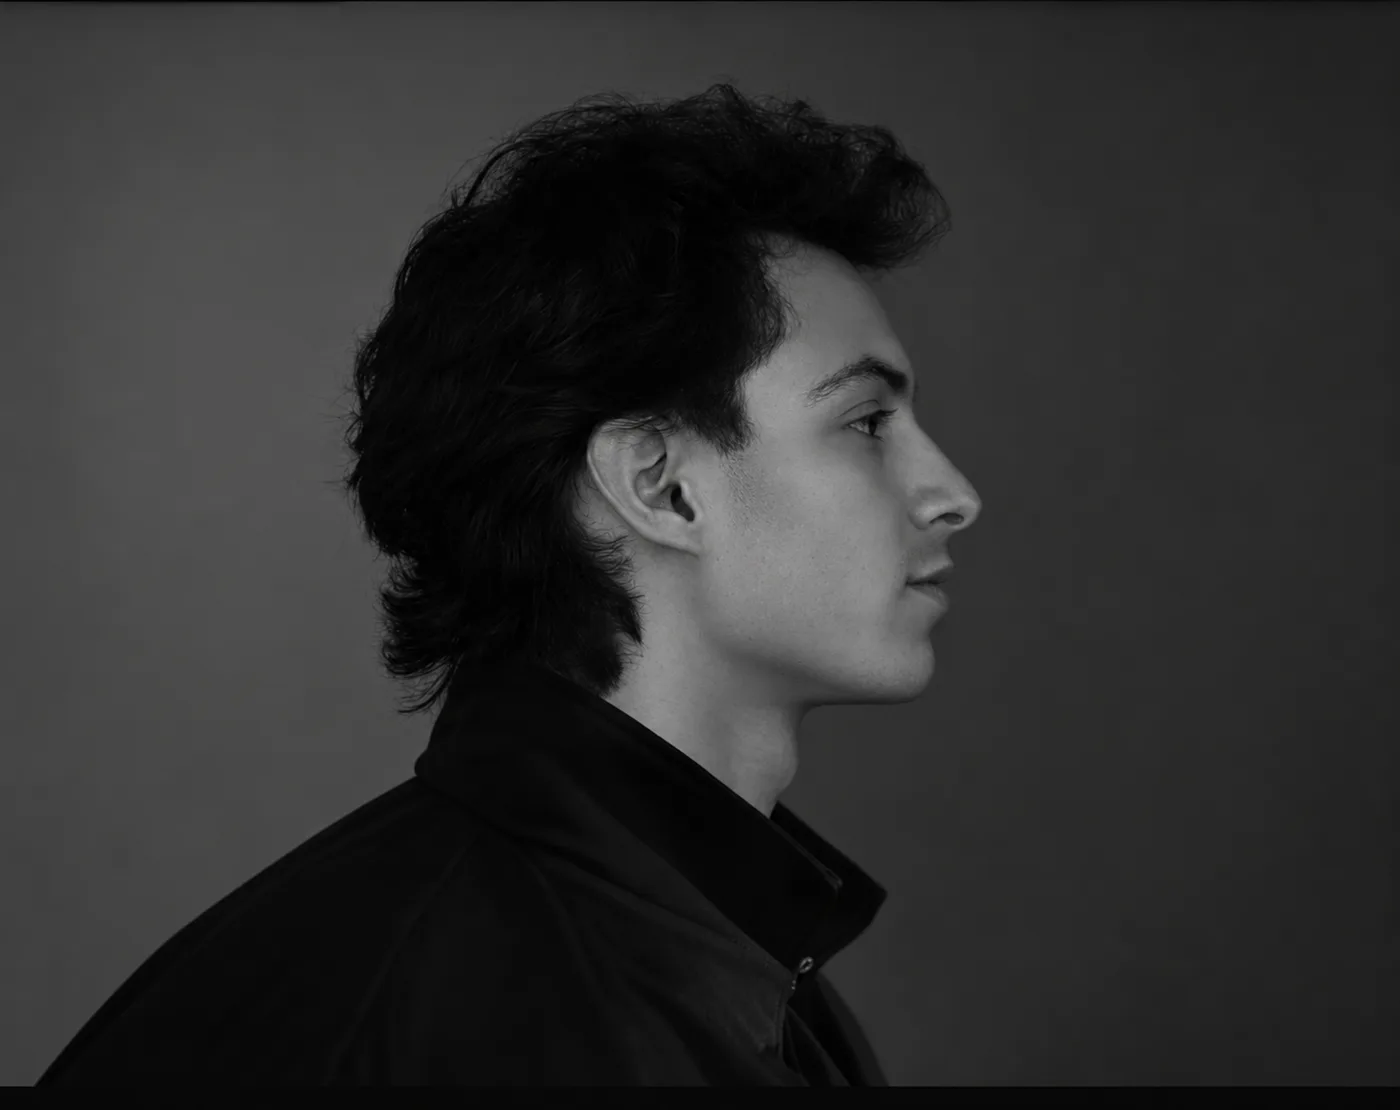
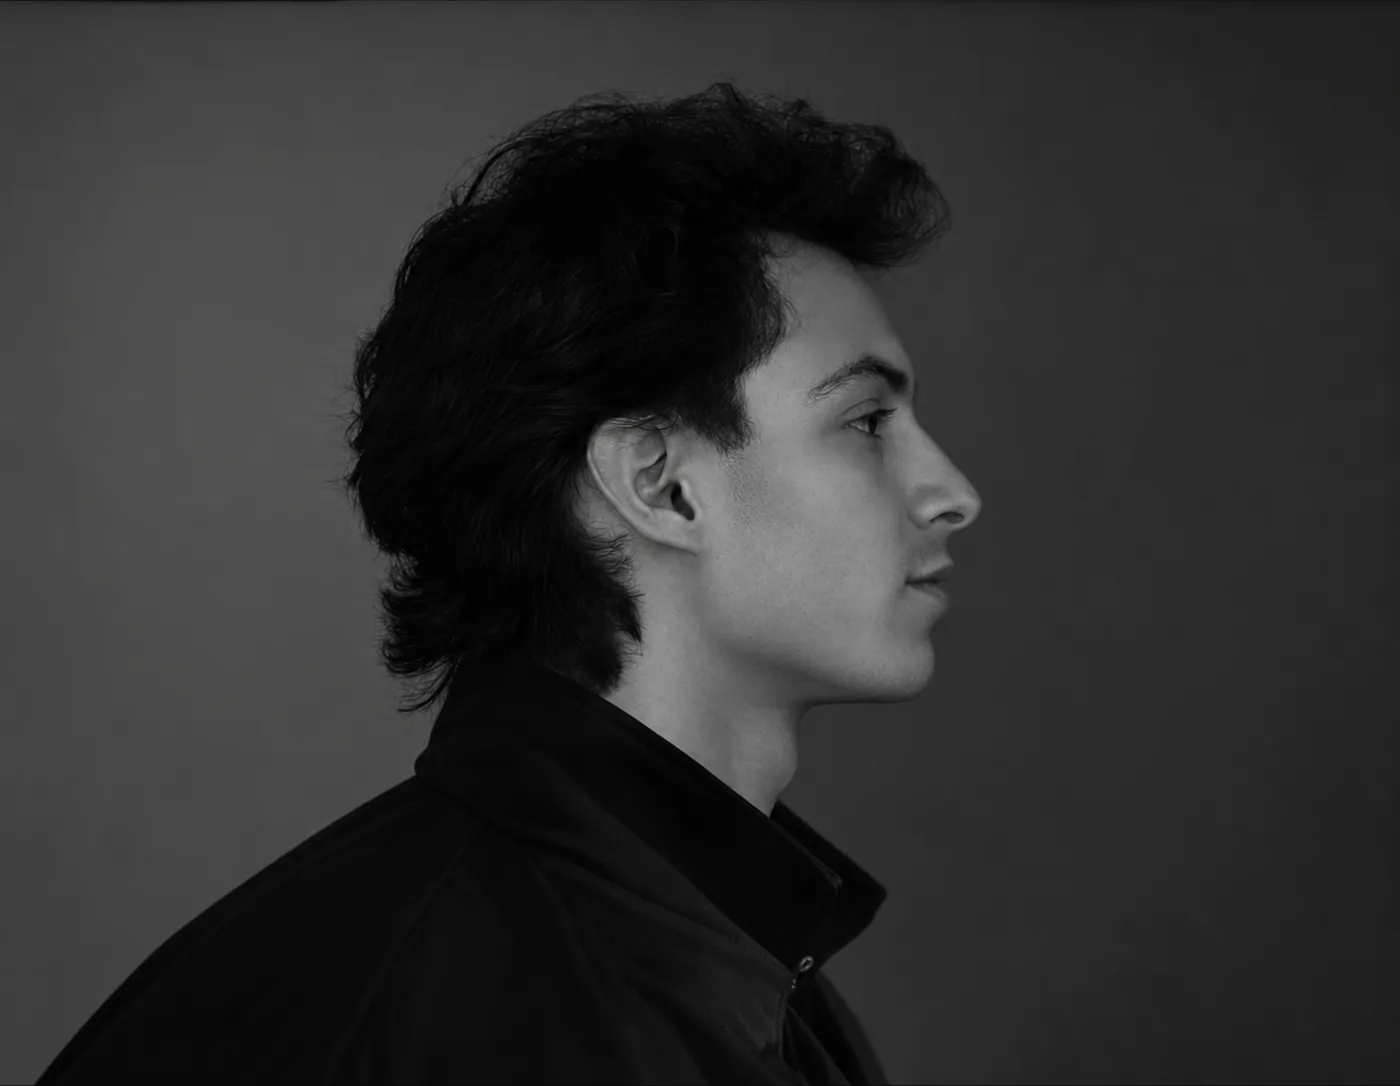
Samsung: one clay/final compare, finals on their own, renders fit the screen
- import-projects picks the best-aligned clay/final pair (image
  similarity) as the single compare plate; the other finals get their
  own equal-size Renders section and the other clays join the
  screenshots in the behind-the-scenes strip.
- Exhibit pieces and the compare plate are capped to the screen height
  so each render is seen whole without scrolling.
- About portrait: dark band trimmed from the bottom edge (now generated
  by import-projects into src/data/portrait.json).

diff --git a/scripts/import-projects.js b/scripts/import-projects.js
@@ -21,11 +21,48 @@ const projects = [
 const fallbackCover = { GLOBALSTAR: 'ChatGPT Image Oct 18, 2026, 03_14_55 AM-2.png' };
 const isImg = (f) => /\.(png|jpe?g)$/i.test(f);
 // Clay/final pairs, matched by file name: the COVER plus "cover 2, cover 3…" in order are the
-// finals, "clay 01, clay 02…" in order are their clay versions. "screen…" files are kept for
-// the behind-the-scenes strip. A project only gets these when it has "clay…" files.
+// finals, "clay 01, clay 02…" in order are their clay versions. The best-aligned pair becomes the
+// single compare plate; the other finals are shown on their own, and the other clays join the
+// "screen…" files in the behind-the-scenes strip. Only projects with "clay…" files get this.
 const isFinal = (f) => /^cover/i.test(f);
 const isClay = (f) => /^clay/i.test(f);
 const isScreen = (f) => /^screen/i.test(f);
+
+// How closely two images line up (correlation of small greyscale thumbnails, -1…1).
+async function similarity(a, b) {
+  const thumb = async (f) => Array.from(await sharp(f).removeAlpha().resize(96, 96, { fit: 'fill' }).greyscale().blur(1).raw().toBuffer());
+  const [x, y] = [await thumb(a), await thumb(b)];
+  const mean = (v) => v.reduce((t, n) => t + n, 0) / v.length;
+  const [mx, my] = [mean(x), mean(y)];
+  let num = 0, dx = 0, dy = 0;
+  for (let i = 0; i < x.length; i++) {
+    num += (x[i] - mx) * (y[i] - my);
+    dx += (x[i] - mx) ** 2;
+    dy += (y[i] - my) ** 2;
+  }
+  return num / Math.sqrt(dx * dy || 1);
+}
+
+// About page portrait: WEBSITE/PHOTO.png with any solid dark rows at the top/bottom edge trimmed.
+async function encodePortrait() {
+  const input = path.join(SRC, 'PHOTO.png');
+  if (!fs.existsSync(input)) return;
+  const { data, info } = await sharp(input).greyscale().raw().toBuffer({ resolveWithObject: true });
+  const rowMean = (y) => {
+    let t = 0;
+    for (let x = 0; x < info.width; x++) t += data[y * info.width + x];
+    return t / info.width;
+  };
+  let top = 0;
+  let bottom = info.height - 1;
+  while (top < bottom && rowMean(top) < 12) top++;
+  while (bottom > top && rowMean(bottom) < 12) bottom--;
+  fs.mkdirSync(`${APP}/public/images/about`, { recursive: true });
+  const out = await sharp(input).extract({ left: 0, top, width: info.width, height: bottom - top + 1 })
+    .resize({ width: 1400, withoutEnlargement: true }).webp({ quality: 82 }).toFile(`${APP}/public/images/about/photo.webp`);
+  console.log(`Portrait: trimmed ${top}px top / ${info.height - 1 - bottom}px bottom -> ${out.width}x${out.height}`);
+  return { src: '/images/about/photo.webp', w: out.width, h: out.height };
+}
 
 const slugify = (s) => s.toLowerCase().replace(/[^a-z0-9]+/g, '-').replace(/^-|-$/g, '');
 
@@ -64,6 +101,8 @@ function encodeShowreel() {
 
 (async () => {
   encodeShowreel();
+  const portrait = await encodePortrait();
+  if (portrait) fs.writeFileSync(`${APP}/src/data/portrait.json`, JSON.stringify(portrait, null, 2) + '\n');
   fs.rmSync(OUT, { recursive: true, force: true });
   const manifest = [];
   for (const [dir, title] of projects) {
@@ -89,27 +128,36 @@ function encodeShowreel() {
     }
     const videoFile = all.find((f) => /\.mp4$/i.test(f));
     const video = videoFile ? encodeVideo(path.join(SRC, dir, videoFile), slug) : null;
-    let plates;
+    let compare;
+    let finals;
     let behind;
     const clays = images.filter((i) => isClay(i.file));
     if (clays.length) {
-      const finals = [cover, ...images.filter((i) => isFinal(i.file))];
-      plates = clays.slice(0, finals.length).map((clay, i) => ({ final: finals[i], clay }));
-      behind = images.filter((i) => isScreen(i.file));
+      const allFinals = [{ ...cover, file: coverFile }, ...images.filter((i) => isFinal(i.file))];
+      const pairs = clays.slice(0, allFinals.length).map((clay, i) => ({ final: allFinals[i], clay }));
+      let best = 0;
+      let bestScore = -Infinity;
+      for (let i = 0; i < pairs.length; i++) {
+        const score = await similarity(path.join(SRC, dir, pairs[i].final.file), path.join(SRC, dir, pairs[i].clay.file));
+        if (score > bestScore) [best, bestScore] = [i, score];
+      }
+      compare = pairs[best];
+      finals = allFinals.filter((f) => f !== compare.final);
+      behind = [...clays.filter((c) => c !== compare.clay), ...images.filter((i) => isScreen(i.file))];
     }
-    manifest.push({ slug, title, cover, images, video, plates, behind });
+    manifest.push({ slug, title, cover, images, video, compare, finals, behind });
     const kb = images.reduce((s, i) => s + i.kb, 0) + cover.kb;
     console.log(`${title}: cover ${cover.w}x${cover.h} (${coverFile}), ${images.length} images, ${kb}KB` +
       (video ? `, video ${video.w}x${video.h} ${video.kb}KB (${videoFile})` : '') +
-      (plates ? `, ${plates.length} clay/final plates, ${behind.length} behind-the-scenes` : ''));
+      (compare ? `, compare ${compare.final.file} / ${compare.clay.file}, ${finals.length} finals, ${behind.length} behind-the-scenes` : ''));
   }
   const pick = ({ src, w, h }) => ({ src, w, h });
-  const strip = manifest.map(({ video, plates, behind, ...p }) => ({
+  const strip = manifest.map(({ video, compare, finals, behind, ...p }) => ({
     ...p,
     cover: pick(p.cover),
     images: p.images.map(pick),
     ...(video && { video: pick(video) }),
-    ...(plates && { plates: plates.map((pl) => ({ final: pick(pl.final), clay: pick(pl.clay) })) }),
+    ...(compare && { compare: { final: pick(compare.final), clay: pick(compare.clay) }, finals: finals.map(pick) }),
     ...(behind && behind.length && { behind: behind.map(pick) }),
   }));
   fs.writeFileSync(`${APP}/src/data/projects.json`, JSON.stringify(strip, null, 2) + '\n');

diff --git a/src/pages/Work.js b/src/pages/Work.js
@@ -1,21 +1,13 @@
 import { Link, useParams } from 'react-router-dom';
 import Page from '../components/Page';
 import HeroMedia from '../components/HeroMedia';
-import Exhibit from '../components/Exhibit';
+import Exhibit, { PATTERNS, fitScreen } from '../components/Exhibit';
 import Compare from '../components/Compare';
 import FilmStrip from '../components/FilmStrip';
 import { MaskLine, Reveal } from '../components/Reveal';
 import { works } from '../data/site';
 import NotFound from './NotFound';
 import './pages.css';
-
-// Clay/final plates hang at alternating sizes and offsets (% of the page width).
-const PLATE_LAYOUT = [
-  { width: 56, left: 0 },
-  { width: 42, left: 58 },
-  { width: 50, left: 22 },
-  { width: 40, left: 4 },
-];
 
 function SectionHead({ index, title, subtitle, count }) {
   return (
@@ -28,31 +20,34 @@ function SectionHead({ index, title, subtitle, count }) {
   );
 }
 
-function Plates({ work }) {
-  const { plates, behind = [] } = work;
+// Projects with clay renders: final renders, one clay/final compare plate, then the
+// remaining clays and screenshots in a behind-the-scenes film strip.
+function ProcessStory({ work }) {
+  const { compare, finals = [], behind = [] } = work;
+  let index = 0;
   return (
     <>
+      {finals.length > 0 && (
+        <section className="work-section">
+          <SectionHead index={++index} title="Renders" subtitle="Final frames" count={finals.length} />
+          <Exhibit images={finals} title={work.title} pattern={PATTERNS.renders} />
+        </section>
+      )}
       <section className="work-section">
-        <SectionHead index={1} title="Clay / Final" subtitle="Drag across each plate to compare" count={plates.length} />
+        <SectionHead index={++index} title="Clay / Final" subtitle="Drag across the image to compare" count={1} />
         <div className="plates">
-          {plates.map((pl, i) => {
-            const at = PLATE_LAYOUT[i % PLATE_LAYOUT.length];
-            return (
-              <Compare
-                key={pl.final.src}
-                clay={pl.clay}
-                final={pl.final}
-                label={`Plate ${String(i + 1).padStart(2, '0')}`}
-                className="plate"
-                style={{ '--plate-w': `${at.width}%`, '--plate-left': `${at.left}%` }}
-              />
-            );
-          })}
+          <Compare
+            clay={compare.clay}
+            final={compare.final}
+            label={work.title}
+            className="plate"
+            style={{ '--plate-w': '56%', '--plate-left': '22%', maxWidth: fitScreen(compare.final) }}
+          />
         </div>
       </section>
       {behind.length > 0 && (
         <section className="work-section">
-          <SectionHead index={2} title="Behind the Scenes" subtitle="Viewport & render setup" count={behind.length} />
+          <SectionHead index={++index} title="Behind the Scenes" subtitle="Clay renders & viewport" count={behind.length} />
           <FilmStrip images={behind} title={work.title} />
         </section>
       )}
@@ -112,8 +107,8 @@ export default function Work() {
           </div>
         )}
 
-        {work.plates ? (
-          <Plates work={work} />
+        {work.compare ? (
+          <ProcessStory work={work} />
         ) : (
           <Exhibit images={work.images} title={work.title} />
         )}

diff --git a/src/components/Exhibit.js b/src/components/Exhibit.js
@@ -15,7 +15,16 @@ export const PATTERNS = {
     { items: [{ left: 0, wide: 70, tall: 42 }] },
     { items: [{ left: 30, wide: 40, tall: 28 }, { wide: 26, tall: 22, drop: 140 }] },
   ],
+  // Final renders: all the same size, a loose two-column grid whose right column hangs lower
+  // and whose rows shift sideways, so it never reads as a strict grid.
+  renders: [
+    { items: [{ left: 6, wide: 40, tall: 40 }, { wide: 40, tall: 40, drop: 96 }] },
+    { items: [{ left: 14, wide: 40, tall: 40 }, { wide: 40, tall: 40, drop: 96 }] },
+  ],
 };
+
+// Never taller than the screen (minus header and caption), so a piece is seen whole.
+export const fitScreen = (img) => `calc((100vh - 170px) * ${(img.w / img.h).toFixed(4)})`;
 
 const isWide = (img) => img.w / img.h > 1.15;
 
@@ -63,6 +72,7 @@ export default function Exhibit({ images, title, pattern = PATTERNS.wall, start 
               title={title}
               style={{
                 width: `${isWide(img) ? slot.wide : slot.tall}%`,
+                maxWidth: fitScreen(img),
                 marginLeft: slot.left !== undefined ? `${slot.left}%` : undefined,
                 marginTop: slot.drop ? `${slot.drop}px` : undefined,
               }}

diff --git a/src/data/site.js b/src/data/site.js
@@ -1,5 +1,6 @@
 // All site content lives here — edit this file to make the portfolio yours.
 import projects from './projects.json';
+import portrait from './portrait.json';
 
 const img = (id) => `https://framerusercontent.com/images/${id}`;
 
@@ -17,7 +18,7 @@ export const profile = {
     'I’ve always seen art as a way of looking at the world differently. A space for questioning, experimenting, and giving form to ideas that don’t always have words.',
     'My practice lives somewhere between design and art, combining visual communication, 3D, and motion to create work that goes beyond appearance. I’m interested in the balance between simplicity and expression, where even the smallest detail can change the way something is perceived.',
   ],
-  portrait: { src: '/images/about/photo.webp', w: 1400, h: 1110 },
+  portrait,
 };
 
 export const experiences = [
